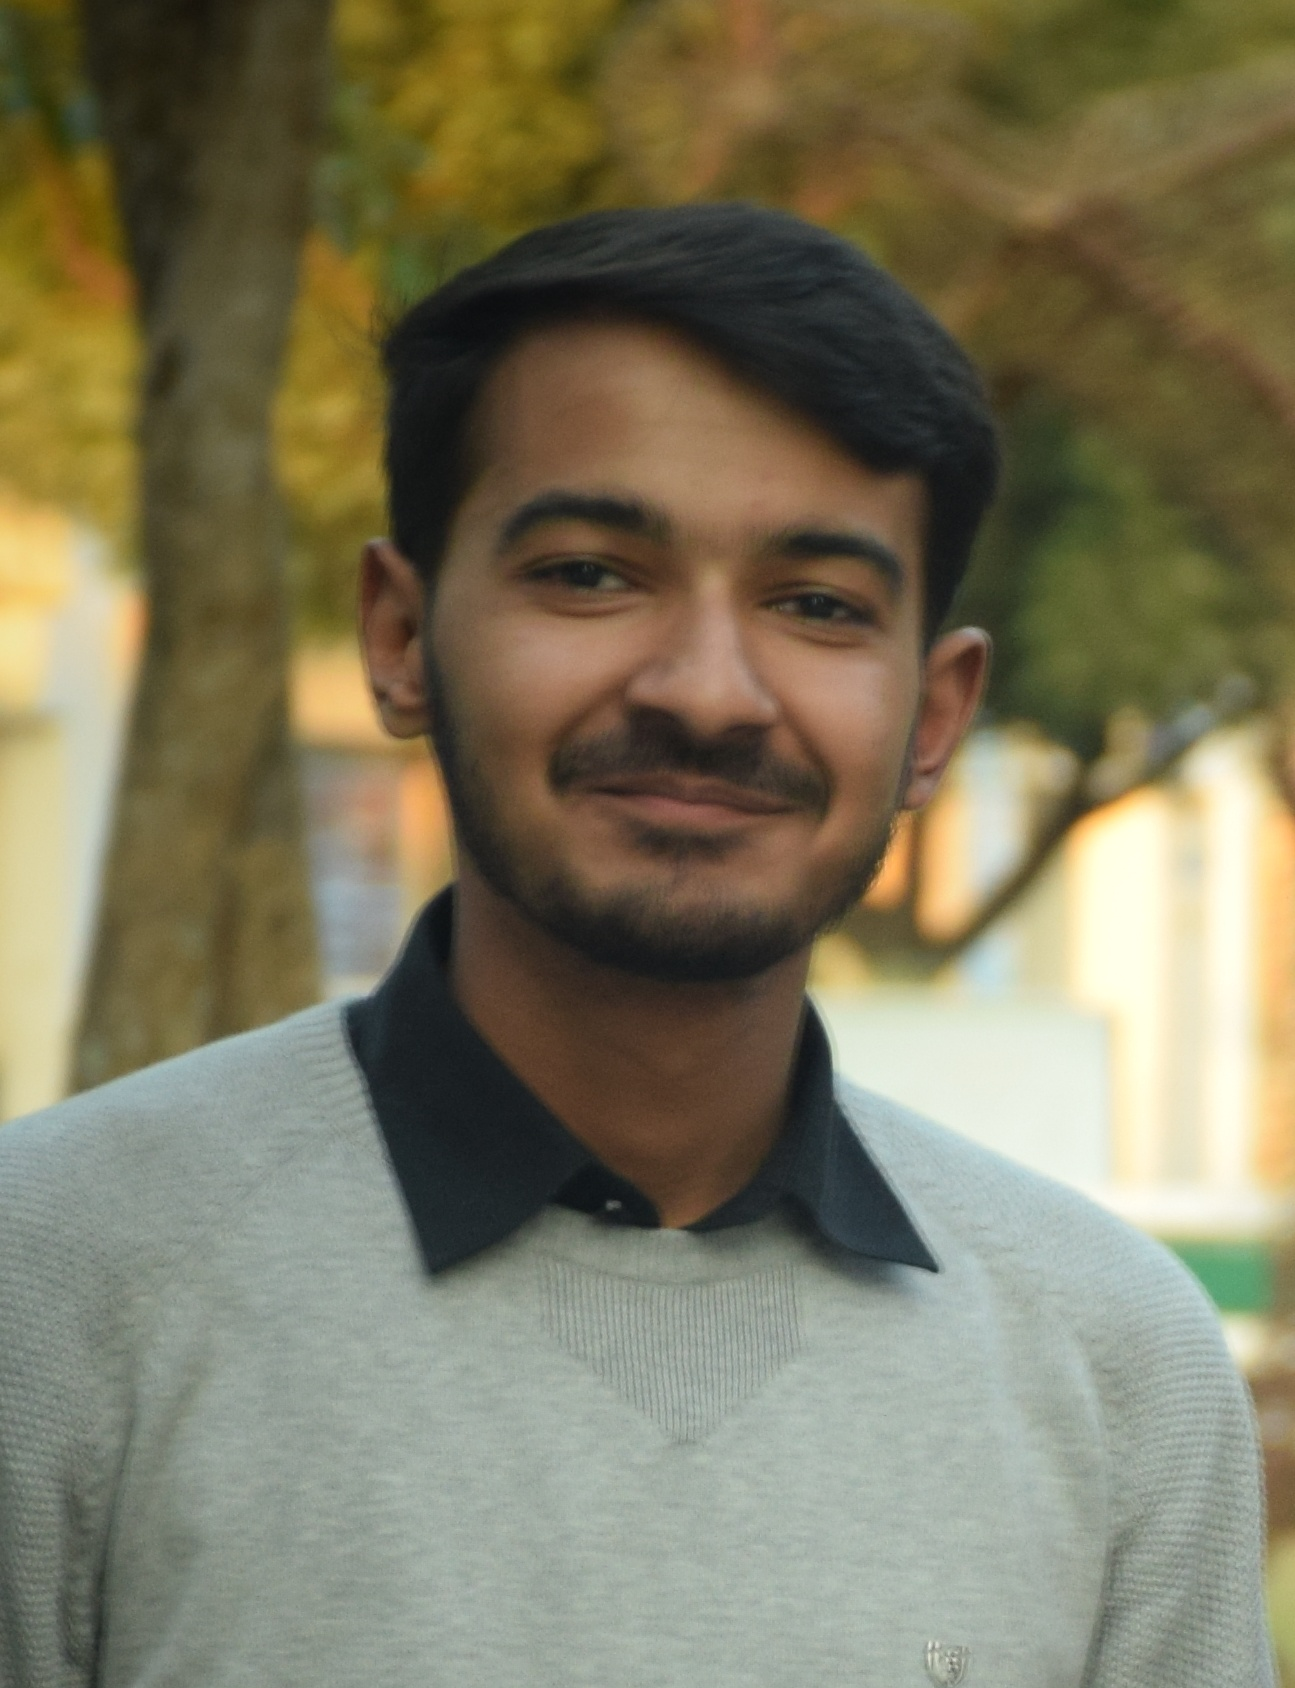
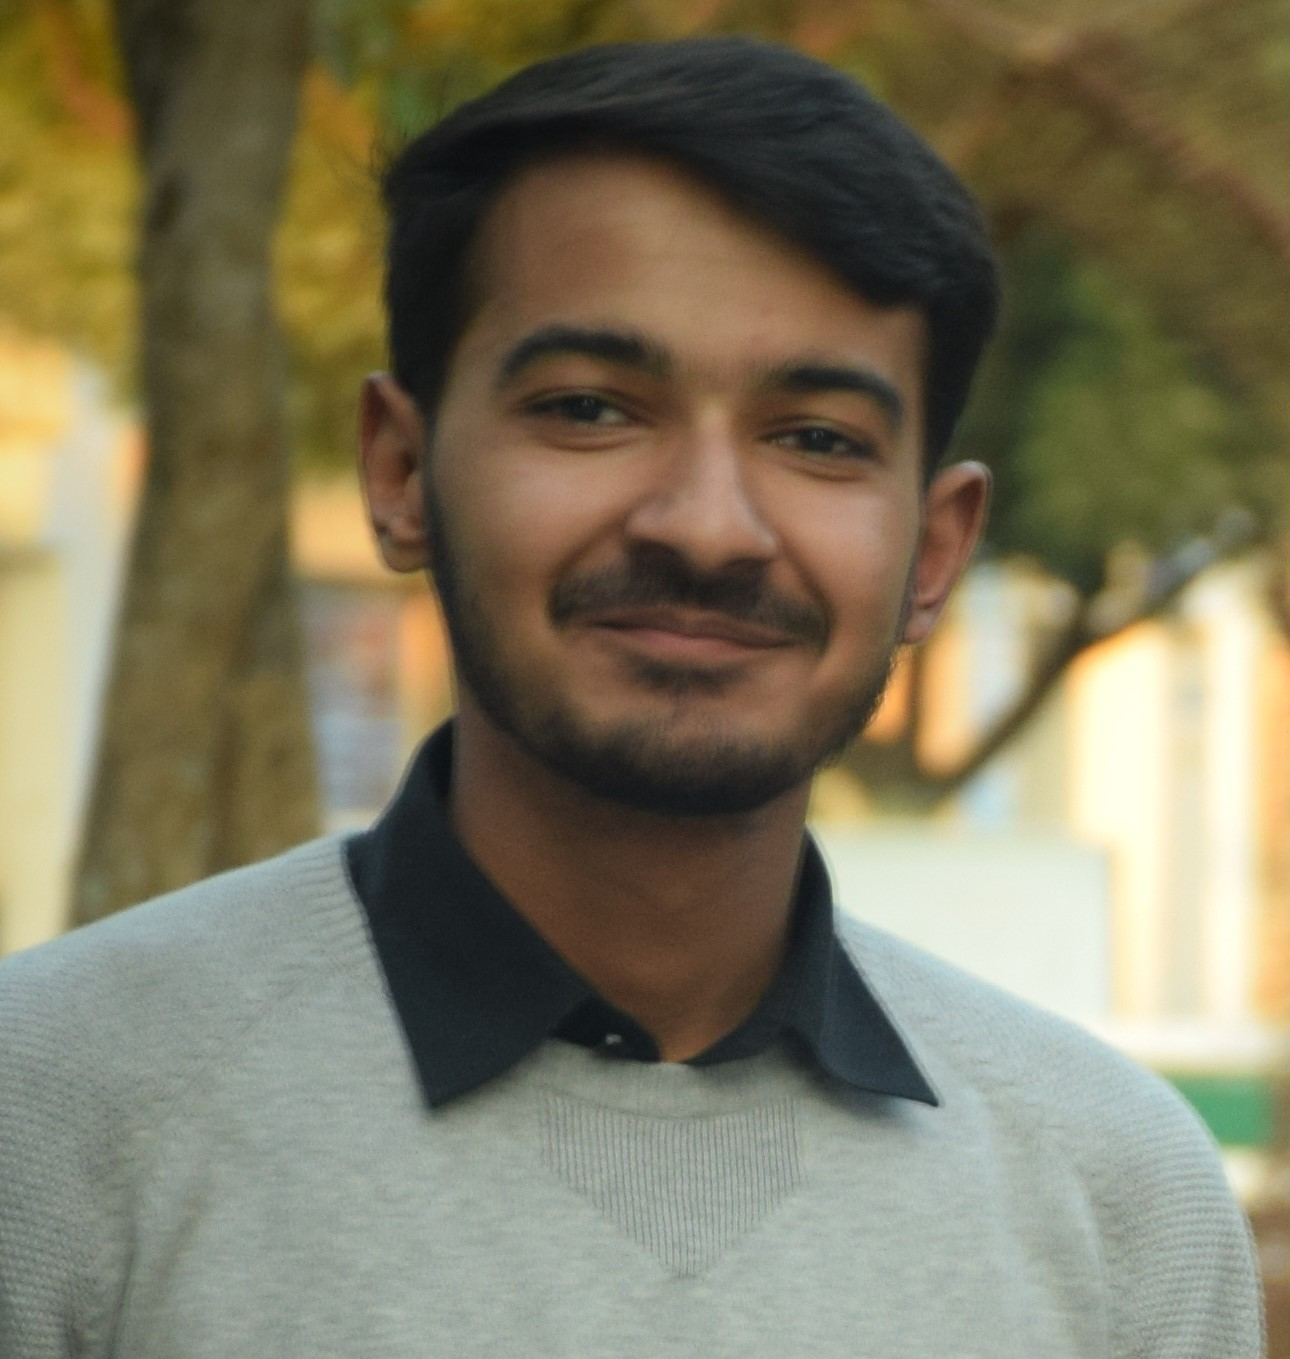
Image change

diff --git a/index.html b/index.html
@@ -40,7 +40,7 @@
           <header id="site_header" class="header mobile-menu-hide">
             <div class="header-content">
               <div class="header-photo">
-                <img src="img/main_photo.jpg" alt="Alex Smith">
+                <img src="img/raja-1.jpeg" alt="Alex Smith">
               </div>
               <div class="header-titles">
                 <h2>Raja Nagori</h2>
